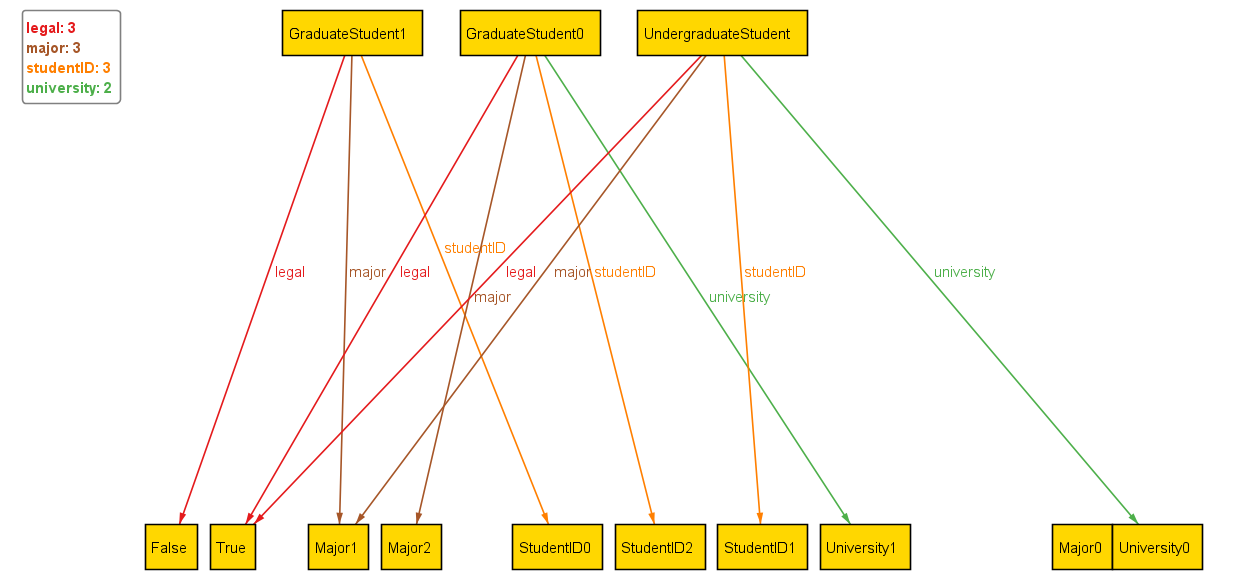
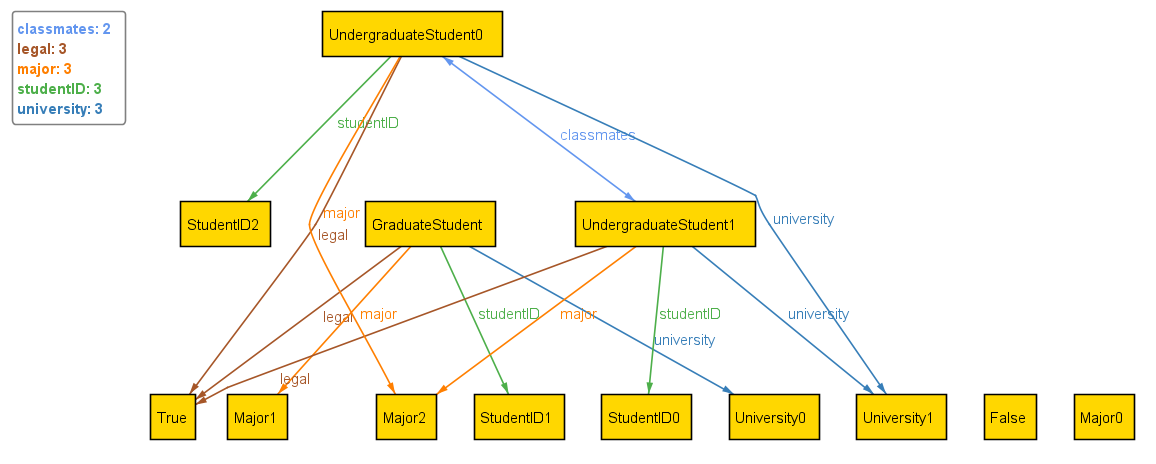
feat: update and align with est team demand

diff --git a/tasks_formal_modelling/answers.md b/tasks_formal_modelling/answers.md
@@ -4,10 +4,11 @@ I used [JetUML](https://www.jetuml.org/) for the class diagram.
 
 ![UML_Class](UML_Class.png)
 
-* `isClassmate` cannot be modelled nicely in class diagrams. It's more of a predicate and hence I decided to use a method.
-    * It returns true if student is from same unviersity and has same major, are same class (Undergrad/Grad) and not the same student.
-* Instead of having a boolean attribute, it made more sense to make a method `isLegal()`, returns true if university is present. Otherwise false. 
-    * The concept of legality implies that university is nullable; a student can be a student without being registered to a university, which makes them non-legal.
+### Notes
+* Based on requirements alone, classmates could have stayed simple a predicate. Initially we used a method `isClassmate` given to each student. Based on requirements alone, this would have been correct. The downside is, this can not be visualized nicely via UML and as it later turned out, also not with Alloy. 
+* So we decided to adjust and now say that each student holds a list of all their classmates. Implementation-wise this may be questionable but now classmates are visible in the UML diagram. 
+* What is still hard to visualize with UML is what students constitute as classmates. This predicate logic is what Alloy excels at.
+
 
 ## Task 1b
 * Alloy does not have in-built booleans, so we make our own, see [docs](https://alloy.readthedocs.io/en/latest/modules/boolean.html)
@@ -22,10 +23,11 @@ sig Major {}
 sig StudentID {}
 
 abstract sig Student {
-    studentID : one StudentID,
-    legal     : one Bool,
-    major     : one Major,
-    university: lone University
+    studentID  : one StudentID,
+    legal      : one Bool,
+    major      : one Major,
+    university : lone University,
+    classmates : set Student
 }
 
 sig GraduateStudent extends Student {}
@@ -35,11 +37,15 @@ fact uniqueStudentIDs {
     all disj s1, s2 : Student | s1.studentID != s2.studentID
 }
 
-fact legal {
+fact legalFact {
     all s : Student | (some s.university) iff (s.legal = True)
 }
 
-pred classmates[s1, s2 : Student] {
+fact classmatesFact {
+    all s : Student | s.classmates = { other : Student | validClassmates[s, other] }
+}
+
+pred validClassmates[s1, s2 : Student] {
     s1 != s2
     s1.major = s2.major
     s1.university = s2.university
@@ -50,6 +56,7 @@ pred classmates[s1, s2 : Student] {
     )
 }
 
+
 pred show {}
 run show for exactly 2 University,
            exactly 3 Major,
@@ -58,3 +65,10 @@ run show for exactly 2 University,
 ```
 ### Visalization
 ![AlloyViz](AlloyViz.png)
+
+### Notes:
+In the Alloy visualization, classmates are now visible because they are present as an attribute of the student. If we had used the predicate alone, even if alloy had enforced it, it did not visualize it.
+* Note: If you re-run this Alloy code, you may have to run it several times as Alloy can generate cases with 3 students, 3 students ids and 3 majors but no classmates.
+
+### Use of AI
+Since Alloy syntax is very new, AI was used to help better understanding syntax. Everything written in Alloy code is explainable by us.